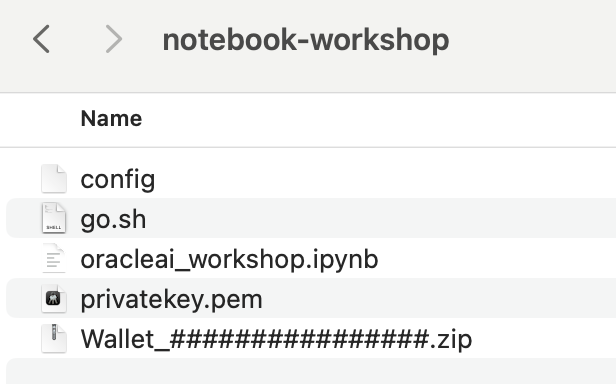
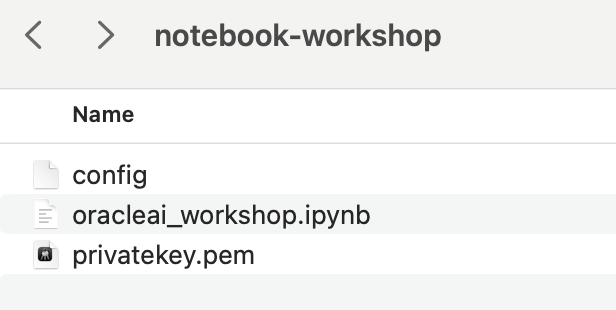
Update the step for remove wallet download image.
Update the step for remove wallet download image.

diff --git a/ai-analytics-for-enterprises-workshop/database-setup/database-setup-workshop.md b/ai-analytics-for-enterprises-workshop/database-setup/database-setup-workshop.md
@@ -11,7 +11,7 @@ The objective of this workshop is to set up the 23ai always free ADB. The follow
 - Complete the Get Started Lab.
 - Basic understanding of SQL is helpful.
 
-## Task 1: Database wallet download and login
+## Task 1: Database login
 1. Using the hamburger menu in the top left hand of the screen, **click** Oracle Database and then click Autonomous Database.
 
     ![locate adb](images/im1.png " ")
@@ -20,32 +20,23 @@ The objective of this workshop is to set up the 23ai always free ADB. The follow
 
     ![locate adb](images/im2-workshop.png " ")
 
-3. Download the wallet and save it to your local machine. We will use this wallet to connect to the database later.
-
-    ![Download wallet file](images/im1-download-wallet-workshop.png " ")
-    ![Download wallet file](images/im2-download-wallet-workshop.png " ")
-
-    Input the password "ComeWel123##". **Download** to download the wallet file.
-
-    The wallet file will named **Wallet_################.zip**. (The ################. is the unique id of the database and will be different for each user.)
-
-4. Entry the SQL development.
+3. Entry the SQL development.
 
     ![locate adb](images/im3-workshop.png " ")
 
-5. Sign-out admin user.
+4. Sign-out admin user.
 
     ![locate adb](images/im4-workshop.png " ")
 
-6. Input account "**AI_DEMO**", and password "ComeWel123##". **Click** Sign in to continue.
+5. Input account "**AI_DEMO**", and password "ComeWel123##". **Click** Sign in to continue.
 
     ![locate adb](images/im5-workshop.png " ")
 
-7. Entry the SQL development console.
+6. Entry the SQL development console.
 
     ![locate adb](images/im6-workshop.png " ")
 
-8. You've now login in Oracle Autonomous Database 23ai on Oracle Cloud Infrastructure. Explore any of the labs at your own pace.
+7. You've now login in Oracle Autonomous Database 23ai on Oracle Cloud Infrastructure. Explore any of the labs at your own pace.
 
     ![locate adb](images/im7-workshop.png " ")
 

diff --git a/ai-analytics-for-enterprises-workshop/create-graph/create-graph-workshop.md b/ai-analytics-for-enterprises-workshop/create-graph/create-graph-workshop.md
@@ -59,7 +59,7 @@ Watch the video below for a quick walk-through of the lab. The lab instructions 
 
     Password: Listed underneath Terraform Values -> User Password (ComeWel123##).
 
-    ![Signing into Graph Studio](images/3-graph-studio-login.png)
+    ![Signing into Graph Studio](images/3-graph-studio-login-workshop.png)
 
 3. Click on the Graph symbol on the left-hand side menu.
 
@@ -105,7 +105,7 @@ Watch the video below for a quick walk-through of the lab. The lab instructions 
 
     ![Creating notebook button clicked](images/8-create-notebook.png)
 
-3. You can name the notebook BANK_GRAPH. The description will be Notebook for Operational Property Graphs LiveLab. You can leave the tags empty.
+3. You can name the notebook **BANK_GRAPH**. The description will be **Notebook for Operational Property Graphs LiveLab**. You can leave the tags empty.
 
     ![Notebook information being filled out](images/9-notebook-info.png)
 

diff --git a/ai-analytics-for-enterprises-workshop/new-ai-vector-search/new-ai-vector-search-workshop.md b/ai-analytics-for-enterprises-workshop/new-ai-vector-search/new-ai-vector-search-workshop.md
@@ -52,16 +52,7 @@
     You can see the uploaded file in console.
     ![Extend session and upload file](images/8-upload-result-workshop.png " ")
 
-2. Into the Terminal.
-    ![Extend session and upload file](images/9-into-terminal-workshop.png " ")
-
-3. In the Terminal, type in "sh go.sh" and press "Enter" to execute the shell file.
-    ![Execute shell file go.sh](images/10-execute-shell-workshop.png " ")
-
-4. Complete the configuration setup.
-    ![Completed the go shell script](images/11-shell-complete-workshop.png " ")
-
-5. Entry the notebook and start ot run the notebook.
+3. Entry the notebook and start ot run the notebook.
     ![Start to execute the notebook script](images/12-start-notebook-workshop.png " ")
 
 6. Let's start to run the notebook.
